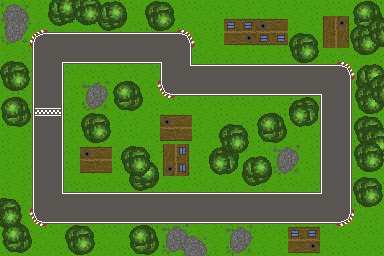
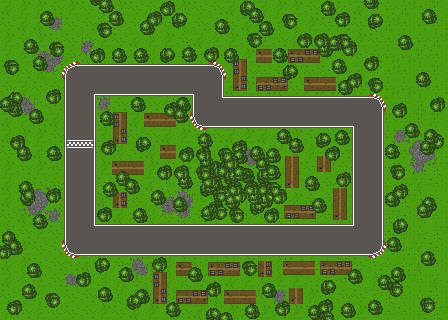
Feature bigger tracks (#15)
* Add: New and larger track textures

* fix new larger tracks with hitboxes
fix map two other start pos hartcoded madness
probaply fix particle persitance into other round

---------

diff --git a/Game/Objects/Car.cs b/Game/Objects/Car.cs
@@ -10,7 +10,7 @@ namespace GameApp{
         private string _name;
         private Camera _camera;
         private GameObject _car;
-        private bool _dummyStart = false;
+        private bool _trackTwoStart = false;
 
         Vector2[] localOffsets;
         List<Vector2> hitboxPoints;
@@ -29,11 +29,19 @@ namespace GameApp{
             this._name = name;
             this._camera = camera;
             this._car = ObjectManager.GetGameObject(this._name);
-            this._car.objectPos.X = -23.5f;
+            this._car.objectPos.X = -20.5f;
             this._car.objectPos.Y = 0.3f;
         }
 
         public void Drive() {
+            if (GameLoop._trackName == "track2" && _trackTwoStart == false){
+                Console.WriteLine($"Set car pos for track2: {GameLoop._trackName}");
+                _car.objectPos.X = -18f;
+                _trackTwoStart = true;
+            }
+            if (GameLoop._trackName != "track2") {
+                _trackTwoStart = false;
+            }
             FrameEventArgs _event = InputProvider.GetFrameEvent();
             float _deltaTime = (float)_event.Time;
             KeyboardState _keyboardState = InputProvider.GetKeyboardState();
@@ -151,7 +159,6 @@ namespace GameApp{
                         _collisionAnimPosition = point;
                     }
                     if(hit[2] == 102) {
-                        _dummyStart = true;
                         GameLoop.HandleLapping(102);
                                             }
                     if(hit[2] == 127) {

diff --git a/Game/Game.cs b/Game/Game.cs
@@ -194,15 +194,19 @@ namespace GameApp{
             else if (GameStateManager.IsState(GameStateManager.GameState.Finished)){
                 if (KeyboardState.IsKeyPressed(Keys.Escape))
                     Close();
-                if (KeyboardState.IsKeyPressed(Keys.Enter))
+                if (KeyboardState.IsKeyPressed(Keys.Enter)){
+                    ParticleManager.Reset();
                     GameStateManager.ChangeState(GameStateManager.GameState.MainMenu);
+                }
             }
 
             else if (GameStateManager.IsState(GameStateManager.GameState.Paused)){
                 if (KeyboardState.IsKeyPressed(Keys.Escape))
                     GameStateManager.ChangeState(GameStateManager.GameState.Playing);
-                if (KeyboardState.IsKeyPressed(Keys.Enter))
+                if (KeyboardState.IsKeyPressed(Keys.Enter)){
+                    ParticleManager.Reset();
                     GameStateManager.ChangeState(GameStateManager.GameState.MainMenu);
+                }
             }
         }
 

diff --git a/Engine/Particles/ParticleManager.cs b/Engine/Particles/ParticleManager.cs
@@ -48,5 +48,9 @@ namespace Engine{
             // Restore state
             GL.DepthMask(true);
         }
+
+        public static void Reset() {
+            particles = new();
+        }
     }
 }
